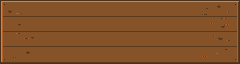
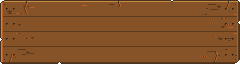
[agent1] Title: weathered sign (chips, cracks, nails, stains), bigger lettering, plank-wood menu buttons

diff --git a/src/game/title/title.css b/src/game/title/title.css
@@ -28,7 +28,7 @@
 .fv-ropes { position:absolute; left:14%; right:14%; bottom:92%; height:50dvh; border-left:calc(2 * var(--px)) solid var(--c-wood); border-right:calc(2 * var(--px)) solid var(--c-wood); }
 .fv-ropes::before,.fv-ropes::after { content:''; position:absolute; bottom:0; width:calc(2 * var(--px)); height:100%; left:calc(-3 * var(--px)); border-left:var(--px) solid var(--c-wood-dark); } .fv-ropes::after { left:auto; right:calc(-3 * var(--px)); border-left:0; border-right:var(--px) solid var(--c-wood-dark); }
 .fv-sign { position:relative; width:100%; height:calc(64 * var(--px)); background:url('/art/title/sign-large.png') center / calc(240 * var(--px)) calc(64 * var(--px)) no-repeat; display:flex; align-items:center; justify-content:center; animation:fv-bob 1.2s steps(2,end) infinite alternate; }
-.fv-sign h1 { margin:0; white-space:nowrap; text-transform:uppercase; font-size:calc(19 * var(--px)); line-height:1; color:var(--c-paper); text-shadow:var(--px) 0 var(--c-outline),calc(-1 * var(--px)) 0 var(--c-outline),0 var(--px) var(--c-outline),0 calc(-1 * var(--px)) var(--c-outline),var(--px) var(--px) var(--c-outline),calc(-1 * var(--px)) var(--px) var(--c-outline),var(--px) calc(-1 * var(--px)) var(--c-outline),calc(-1 * var(--px)) calc(-1 * var(--px)) var(--c-outline),0 calc(2 * var(--px)) var(--c-wood-dark),0 calc(3 * var(--px)) var(--c-wood-dark); }
+.fv-sign h1 { margin:0; white-space:nowrap; text-transform:uppercase; font-size:calc(25 * var(--px)); line-height:1; color:var(--c-paper); text-shadow:var(--px) 0 var(--c-outline),calc(-1 * var(--px)) 0 var(--c-outline),0 var(--px) var(--c-outline),0 calc(-1 * var(--px)) var(--c-outline),var(--px) var(--px) var(--c-outline),calc(-1 * var(--px)) var(--px) var(--c-outline),var(--px) calc(-1 * var(--px)) var(--c-outline),calc(-1 * var(--px)) calc(-1 * var(--px)) var(--c-outline),0 calc(2 * var(--px)) var(--c-wood-dark),0 calc(3 * var(--px)) var(--c-wood-dark); }
 .fv-vine { position:absolute; pointer-events:none; z-index:1; animation:fv-drift 1.8s steps(2,end) infinite alternate; }
 /* Vines are single non-repeating runs (256x18 and 16x72) generated with irregular leaves, so no segment tiles. */
 .fv-vine--top { left:calc(-8 * var(--px)); right:calc(-8 * var(--px)); top:calc(-12 * var(--px)); height:calc(18 * var(--px)); background:url('/art/title/vine-top.png') left top / calc(256 * var(--px)) calc(18 * var(--px)) no-repeat; }
@@ -39,7 +39,9 @@
 .fv-title-menu { position:absolute; top:70%; left:50%; transform:translateX(-50%); display:flex; gap:calc(6 * var(--px)); width:max-content; max-width:94%; }
 .fv-title-menu > .fv-button { position:relative; height:auto; min-height:calc(18 * var(--px)); min-width:calc(68 * var(--px)); padding:calc(2 * var(--px)) calc(5 * var(--px)); white-space:normal; font-size:calc(7 * var(--px)); }
 .fv-title-menu > .fv-button .fv-button__content > span { display:flex; flex-direction:column; align-items:center; gap:var(--px); }
-.fv-title-menu > .fv-button:disabled { background:var(--c-parchment); }
+/* Menu buttons are plank boards: the sign's own wood behind the frame, paper lettering outlined like the title. */
+.fv-title-menu > .fv-button { border-image-slice:4; background:var(--c-wood) url('/art/title/sign-large.png') center / calc(240 * var(--px)) calc(64 * var(--px)); color:var(--c-paper); text-shadow:var(--px) 0 var(--c-outline),calc(-1 * var(--px)) 0 var(--c-outline),0 var(--px) var(--c-outline),0 calc(-1 * var(--px)) var(--c-outline),var(--px) var(--px) var(--c-outline),calc(-1 * var(--px)) var(--px) var(--c-outline),var(--px) calc(-1 * var(--px)) var(--c-outline),calc(-1 * var(--px)) calc(-1 * var(--px)) var(--c-outline); }
+.fv-title-menu > .fv-button:disabled { background-image:none; background-color:var(--c-wood-dark); color:var(--c-parchment); }
 .fv-title-menu small { font:calc(4.5 * var(--px))/1 var(--font-body); max-width:calc(90 * var(--px)); white-space:nowrap; }
 /* Pointer: 6 art px square, 2 art px left of the hovered button's border, vertically centred (same at every breakpoint). */
 .fv-title-menu > .fv-button:hover::before,.fv-title-menu > .fv-button:focus-visible::before { content:''; position:absolute; top:calc(50% - 3 * var(--px)); left:calc(-8 * var(--px)); width:calc(6 * var(--px)); height:calc(6 * var(--px)); background:url('/art/title/pointer.png') center / 100% 100%; image-rendering:pixelated; }
@@ -49,7 +51,7 @@
 /* Sub-screens: the sign switches to its small sprite; content scrolls inside the stage. */
 .fv-title--subscreen .fv-sign-wrap { top:calc(11 * var(--px)); width:calc(120 * var(--px)); }
 .fv-sign--small { height:calc(24 * var(--px)); background-image:url('/art/title/sign-small.png'); background-size:calc(120 * var(--px)) calc(24 * var(--px)); }
-.fv-sign--small h1 { font-size:calc(9 * var(--px)); }
+.fv-sign--small h1 { font-size:calc(11 * var(--px)); }
 .fv-title--subscreen .fv-vine--left,.fv-title--subscreen .fv-vine--right { height:calc(30 * var(--px)); }
 .fv-title-content { position:absolute; inset:calc(37 * var(--px)) calc(9 * var(--px)) calc(16 * var(--px)); overflow:auto; overscroll-behavior:contain; padding:calc(2 * var(--px)); font-size:calc(5 * var(--px)); }
 .fv-title-content .fv-back { position:absolute; top:calc(2 * var(--px)); left:calc(2 * var(--px)); z-index:1; }
